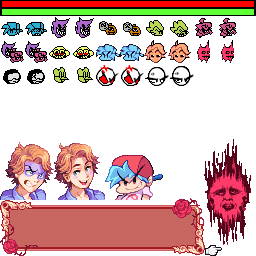
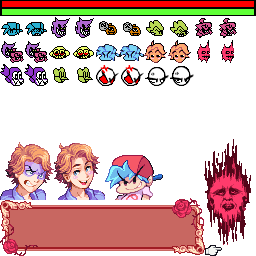
add bfalt game over

Changed region(s): [[0.0, 0.25, 0.1875, 0.3438]]

diff --git a/src/character/bfalt.c b/src/character/bfalt.c
@@ -12,32 +12,12 @@
 #include "../random.h"
 #include "../main.h"
 
-//Boyfriend /v/ unused skull fragments
-static SkullFragment char_bfalt_skull[15] = {
-	{ 1 * 8, -87 * 8, -13, -13},
-	{ 9 * 8, -88 * 8,   5, -22},
-	{18 * 8, -87 * 8,   9, -22},
-	{26 * 8, -85 * 8,  13, -13},
-	
-	{-3 * 8, -82 * 8, -13, -11},
-	{ 8 * 8, -85 * 8,  -9, -15},
-	{20 * 8, -82 * 8,   9, -15},
-	{30 * 8, -79 * 8,  13, -11},
-	
-	{-1 * 8, -74 * 8, -13, -5},
-	{ 8 * 8, -77 * 8,  -9, -9},
-	{19 * 8, -75 * 8,   9, -9},
-	{26 * 8, -74 * 8,  13, -5},
-	
-	{ 5 * 8, -73 * 8, -5, -3},
-	{14 * 8, -76 * 8,  9, -6},
-	{26 * 8, -67 * 8, 15, -3},
-};
 
 //Boyfriend /v/ player types
 enum
 {
-	BFALT_ArcMain_Idle,
+	BFALT_ArcMain_Idle0,
+	BFALT_ArcMain_Idle1,
 	BFALT_ArcMain_Up,
 	BFALT_ArcMain_Left,
 	BFALT_ArcMain_Down,
@@ -46,6 +26,9 @@ enum
 	BFALT_ArcMain_Leftmiss,
 	BFALT_ArcMain_Downmiss,
 	BFALT_ArcMain_Rmiss,
+	BFALT_ArcMain_Ban0,
+	BFALT_ArcMain_Ban1,
+	BFALT_ArcMain_Ban2,
 	
 	BFALT_ArcMain_Max,
 };
@@ -69,22 +52,20 @@ typedef struct
 	//Render data and state
 	IO_Data arc_main;
 	IO_Data arc_ptr[BFALT_Arc_Max];
-	
+
 	Gfx_Tex tex, tex_retry;
 	u8 frame, tex_id;
 	
 	u8 retry_bump;
 	
-	SkullFragment skull[COUNT_OF(char_bfalt_skull)];
-	u8 skull_scale;
 } Char_BFALT;
 
 //Boyfriend /v/ player definitions
 static const CharFrame char_bfalt_frame[] = {
-	{BFALT_ArcMain_Idle,     {  0,   0, 121, 105},   { 53,  92}}, //0 idle 1
-	{BFALT_ArcMain_Idle,     {122,   0, 120, 108},   { 53,  95}}, //1 idle 2
-	{BFALT_ArcMain_Idle,     {  0, 106, 117, 109},     { 51,  96}}, //2 idle 3
-	{BFALT_ArcMain_Idle,     {120, 109, 117, 109},     { 49,  96}}, //3 idle 4
+	{BFALT_ArcMain_Idle0,     {  0,   0, 121, 105},   { 53,  92}}, //0 idle 1
+	{BFALT_ArcMain_Idle1,     {122,   0, 120, 108},   { 53,  95}}, //1 idle 2
+	{BFALT_ArcMain_Idle1,     {  0, 106, 117, 109},     { 51,  96}}, //2 idle 3
+	{BFALT_ArcMain_Idle1,     {120, 109, 117, 109},     { 49,  96}}, //3 idle 4
 	
 	{BFALT_ArcMain_Left,     {  0,   0, 154, 108}, { 86,  95}}, //4 left 1
 	{BFALT_ArcMain_Left,     {  0, 109, 154, 108}, { 86,  95}}, //5 left 2
@@ -98,13 +79,22 @@ static const CharFrame char_bfalt_frame[] = {
 	
 	{BFALT_ArcMain_Up,       {  0,   0, 142, 118}, { 74, 105}}, //12 up 1
 	{BFALT_ArcMain_Up,       {  0, 119, 141, 114}, { 73, 101}}, //13 up 2
-	{BFALT_ArcMain_Upmiss,   {  0,   0, 142, 114}, { 74, 105}}, //14 up miss 1
-	{BFALT_ArcMain_Upmiss,   {  0, 115, 142, 114}, { 74, 105}}, //15 up miss 2
+	{BFALT_ArcMain_Upmiss,   {  0,   0, 142, 114}, { 74, 101}}, //14 up miss 1
+	{BFALT_ArcMain_Upmiss,   {  0, 115, 142, 114}, { 74, 101}}, //15 up miss 2
 	
 	{BFALT_ArcMain_Right,    {  0,   0, 138, 110}, { 70,  95}}, //16 right 1
 	{BFALT_ArcMain_Right,    {  0, 111, 137, 111}, { 69,  95}}, //17 right 2
 	{BFALT_ArcMain_Rmiss,    {  0,   0, 137, 111}, { 69,  96}}, //18 right miss 1
 	{BFALT_ArcMain_Rmiss,    {  0, 112, 137, 111}, { 69,  95}}, //19 right miss 2
+
+	{BFALT_ArcMain_Ban0,  { 0,  0,  161, 129}, {93, 122}}, //20
+	{BFALT_ArcMain_Ban0,  { 0,  127,  161, 129}, {93, 122}}, //21
+
+	{BFALT_ArcMain_Ban1,  { 0,  0,  161, 129}, {93, 122}},//22
+	{BFALT_ArcMain_Ban1,  { 0,  127,  161, 129}, {93, 122}},//23
+
+	{BFALT_ArcMain_Ban2,  { 0,  0,  161, 129}, {93, 122}},//24
+	{BFALT_ArcMain_Ban2,  { 0,  127,  161, 129}, {93, 122}},//25
 
 };
 
@@ -121,13 +111,13 @@ static const Animation char_bfalt_anim[PlayerAnim_Max] = {
 	{2, (const u8[]){ASCR_CHGANI, CharAnim_Idle}},         //PlayerAnim_Peace
 	{2, (const u8[]){ASCR_CHGANI, CharAnim_Idle}},       //PlayerAnim_Sweat
 	
-	{2, (const u8[]){ 0,  1,  2,  3, 4, ASCR_BACK, 1}}, //CharAnim_Idle
-	{2, (const u8[]){ 0,  1,  2,  3, 4, ASCR_BACK, 1}}, //CharAnim_Idle
-	{2, (const u8[]){ 0,  1,  2,  3, 4, ASCR_BACK, 1}}, //CharAnim_Idle
-	{2, (const u8[]){ 0,  1,  2,  3, 4, ASCR_BACK, 1}}, //CharAnim_Idle
-	{2, (const u8[]){ 0,  1,  2,  3, 4, ASCR_BACK, 1}}, //CharAnim_Idle
-	{2, (const u8[]){ 0,  1,  2,  3, 4, ASCR_BACK, 1}}, //CharAnim_Idle
-	{2, (const u8[]){ 0,  1,  2,  3, 4, ASCR_BACK, 1}}, //CharAnim_Idle
+	{3, (const u8[]){ 20, 21, ASCR_CHGANI, PlayerAnim_Dead1}}, //CharAnim_Idle
+	{3, (const u8[]){ 22, 23, ASCR_CHGANI, PlayerAnim_Dead2}}, //CharAnim_Idle
+	{20, (const u8[]){ 24, ASCR_CHGANI, PlayerAnim_Dead3}}, //CharAnim_Idle
+	{1, (const u8[]){ 25, ASCR_CHGANI, PlayerAnim_Dead3}}, //CharAnim_Idle
+	{2, (const u8[]){ ASCR_CHGANI, PlayerAnim_Dead3}}, //CharAnim_Idle
+	{2, (const u8[]){ ASCR_CHGANI, PlayerAnim_Dead3}}, //CharAnim_Idle
+	{2, (const u8[]){ ASCR_CHGANI, PlayerAnim_Dead3}}, //CharAnim_Idle
 };
 
 //Boyfriend /v/ player functions
@@ -187,106 +177,6 @@ void Char_BFALT_Tick(Character *character)
 		}
 	}
 	
-	//Retry screen
-	if (character->animatable.anim >= PlayerAnim_Dead3)
-	{
-		//Tick skull fragments
-		if (this->skull_scale)
-		{
-			SkullFragment *frag = this->skull;
-			for (size_t i = 0; i < COUNT_OF_MEMBER(Char_BFALT, skull); i++, frag++)
-			{
-				//Draw fragment
-				RECT frag_src = {
-					(i & 1) ? 112 : 96,
-					(i >> 1) << 4,
-					16,
-					16
-				};
-				fixed_t skull_dim = (FIXED_DEC(16,1) * this->skull_scale) >> 6;
-				fixed_t skull_rad = skull_dim >> 1;
-				RECT_FIXED frag_dst = {
-					character->x + (((fixed_t)frag->x << FIXED_SHIFT) >> 3) - skull_rad - stage.camera.x,
-					character->y + (((fixed_t)frag->y << FIXED_SHIFT) >> 3) - skull_rad - stage.camera.y,
-					skull_dim,
-					skull_dim,
-				};
-				Stage_DrawTex(&this->tex_retry, &frag_src, &frag_dst, FIXED_MUL(stage.camera.zoom, stage.bump));
-				
-				//Move fragment
-				frag->x += frag->xsp;
-				frag->y += ++frag->ysp;
-			}
-			
-			//Decrease scale
-			this->skull_scale--;
-		}
-		
-		//Draw input options
-		u8 input_scale = 16 - this->skull_scale;
-		if (input_scale > 16)
-			input_scale = 0;
-		
-		RECT button_src = {
-			 0, 96,
-			16, 16
-		};
-		RECT_FIXED button_dst = {
-			character->x - FIXED_DEC(32,1) - stage.camera.x,
-			character->y - FIXED_DEC(88,1) - stage.camera.y,
-			(FIXED_DEC(16,1) * input_scale) >> 4,
-			FIXED_DEC(16,1),
-		};
-		
-		//Cross - Retry
-		Stage_DrawTex(&this->tex_retry, &button_src, &button_dst, FIXED_MUL(stage.camera.zoom, stage.bump));
-		
-		//Circle - Blueball
-		button_src.x = 16;
-		button_dst.y += FIXED_DEC(56,1);
-		Stage_DrawTex(&this->tex_retry, &button_src, &button_dst, FIXED_MUL(stage.camera.zoom, stage.bump));
-		
-		//Draw 'RETRY'
-		u8 retry_frame;
-		
-		if (character->animatable.anim == PlayerAnim_Dead6)
-		{
-			//Selected retry
-			retry_frame = 2 - (this->retry_bump >> 3);
-			if (retry_frame >= 3)
-				retry_frame = 0;
-			if (this->retry_bump & 2)
-				retry_frame += 3;
-			
-			if (++this->retry_bump == 0xFF)
-				this->retry_bump = 0xFD;
-		}
-		else
-		{
-			//Idle
-			retry_frame = 1 +  (this->retry_bump >> 2);
-			if (retry_frame >= 3)
-				retry_frame = 0;
-			
-			if (++this->retry_bump >= 55)
-				this->retry_bump = 0;
-		}
-		
-		RECT retry_src = {
-			(retry_frame & 1) ? 48 : 0,
-			(retry_frame >> 1) << 5,
-			48,
-			32
-		};
-		RECT_FIXED retry_dst = {
-			character->x -  FIXED_DEC(7,1) - stage.camera.x,
-			character->y - FIXED_DEC(92,1) - stage.camera.y,
-			FIXED_DEC(48,1),
-			FIXED_DEC(32,1),
-		};
-		Stage_DrawTex(&this->tex_retry, &retry_src, &retry_dst, FIXED_MUL(stage.camera.zoom, stage.bump));
-	}
-	
 	//Animate and draw character
 	Animatable_Animate(&character->animatable, (void*)this, Char_BFALT_SetFrame);
 	Character_Draw(character, &this->tex, &char_bfalt_frame[this->frame]);
@@ -341,7 +231,8 @@ Character *Char_BFALT_New(fixed_t x, fixed_t y)
 	this->arc_main = IO_Read("\\CHAR\\BFALT.ARC;1");
 	
 	const char **pathp = (const char *[]){
-		"idle.tim",
+		"idle0.tim",
+		"idle1.tim",
 		"up.tim", 
 		"left.tim",
 		"down.tim",
@@ -350,29 +241,16 @@ Character *Char_BFALT_New(fixed_t x, fixed_t y)
 		"leftmiss.tim",
 		"downmiss.tim",
 		"rmiss.tim",
+		"ban0.tim",
+		"ban1.tim",
+		"ban2.tim",
 		NULL
 	};
 	IO_Data *arc_ptr = this->arc_ptr;
 	for (; *pathp != NULL; pathp++)
 		*arc_ptr++ = Archive_Find(this->arc_main, *pathp);
 	
-	//Initialize render state
-	this->tex_id = this->frame = 0xFF;
 	
-	//Initialize player state
-	this->retry_bump = 0;
-	
-	//Copy skull fragments
-	memcpy(this->skull, char_bfalt_skull, sizeof(char_bfalt_skull));
-	this->skull_scale = 64;
-	
-	SkullFragment *frag = this->skull;
-	for (size_t i = 0; i < COUNT_OF_MEMBER(Char_BFALT, skull); i++, frag++)
-	{
-		//Randomize trajectory
-		frag->xsp += RandomRange(-4, 4);
-		frag->ysp += RandomRange(-2, 2);
-	}
 	
 	return (Character*)this;
 }

diff --git a/src/stagedef_disc1.h b/src/stagedef_disc1.h
@@ -47,7 +47,7 @@
 		//Characters
 		{Char_BFALT_New,       FIXED_DEC(50,1),  FIXED_DEC(90,1)},
         {Char_Cancer_New,  FIXED_DEC(-140,1),  FIXED_DEC(110,1)},
-        {Char_GF_New,        FIXED_DEC(500,1),    FIXED_DEC(0,1)},
+        {Char_GFV_New,        FIXED_DEC(500,1),    FIXED_DEC(0,1)},
 		
 		//Stage background
 		Back_Wreck_New,
